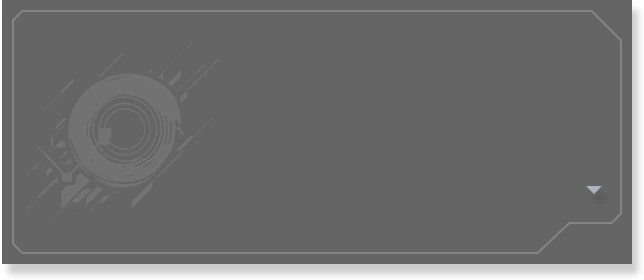
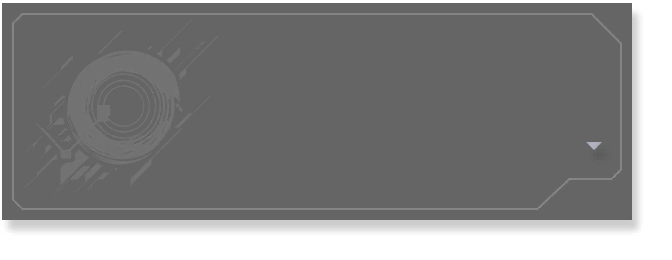
[feat,fix] Add `Character Share` feature to `Automation`, resize atlas textures

Changed region(s): [[0.0, 0.0, 0.9938, 0.9846], [0.8696, 0.5231, 0.9006, 0.5846], [0.0, 0.7692, 0.0311, 0.8]]

diff --git a/Features/Automation.cs b/Features/Automation.cs
@@ -7,8 +7,11 @@ using System.Collections;
 using System.Collections.Generic;
 using System.Linq;
 using System.Reflection;
+using System.Text;
+using System.Text.RegularExpressions;
 
 using UnityEngine;
+using UnityEngine.XR;
 
 namespace Symphony.Features {
 	[Feature("Automation")]
@@ -40,6 +43,13 @@ namespace Symphony.Features {
 			harmony.Patch(
 				AccessTools.Method(typeof(Panel_OfflineBattleResult), nameof(Panel_OfflineBattleResult.InitOfflineBattleResult)),
 				postfix: new HarmonyMethod(typeof(Automation), nameof(Automation.Patch_OfflineBattle_Restart))
+			);
+			#endregion
+
+			#region Character Share
+			harmony.Patch(
+				AccessTools.Method(typeof(Panel_CharacterDetails), nameof(Panel_CharacterDetails.Start)),
+				postfix: new HarmonyMethod(typeof(Automation), nameof(Automation.Patch_CharacterShare))
 			);
 			#endregion
 		}
@@ -407,6 +417,155 @@ namespace Symphony.Features {
 			else {
 				Btn_Restart.SetActive(false); // hide restart button
 			}
+		}
+		#endregion
+
+		#region Character Share
+		private const int CharShareCodeVersion = 1;
+		private static void Patch_CharacterShare(Panel_CharacterDetails __instance) {
+			if (!Conf.Automation.Use_CharacterShare.Value) return;
+
+			var pc = __instance.XGetFieldValue<ClientPcInfo>("_SelectPCInfo");
+			var _goFavorMarriageIcon = __instance.XGetFieldValue<GameObject>("_goFavorMarriageIcon");
+			if (pc == null || _goFavorMarriageIcon == null) {
+				Plugin.Logger.LogWarning("[Symphony::SimpleUI] Cannot get client PC info or source button from scene");
+				return;
+			}
+
+			var parent = __instance.XGetFieldValue<GameObject>("_goMarriageHide").transform;
+			var hp_fill_box = parent.Find("hp_fill_box");
+			var DefSp = parent.Find("DefSp");
+
+			#region Export button
+			{
+				var go = GameObject.Instantiate(_goFavorMarriageIcon, parent, true);
+				go.name = "Share_Export";
+				Destroy(go.transform.Find("BtnMarriageVoice")?.gameObject);
+
+				go.SetActive(true);
+				go.transform.localPosition = new Vector3(
+					DefSp.localPosition.x + 40f,
+					hp_fill_box.localPosition.y + 20f,
+					0f
+				);
+
+				var loc = go.GetComponentInChildren<UILocalize>();
+				if (loc != null) {
+					loc.enabled = false;
+					Destroy(loc);
+				}
+
+				var lbl = go.GetComponentInChildren<UILabel>();
+				if (lbl != null) lbl.text = "내보내기";
+
+				if (!go.TryGetComponent<UISprite>(out var sp) || !go.TryGetComponent<UIButton>(out var btn)) {
+					Plugin.Logger.LogWarning("[Symphony::SimpleUI] Cannot get component, failed to add favorite feature on CharacterDetail");
+					Destroy(go);
+					return;
+				}
+
+				btn.GetComponent<UISprite>()?.atlas = Atlas.atlas;
+				btn.normalSprite = "UI_Export";
+				sp.spriteName = btn.normalSprite;
+
+				btn.hoverSprite = null;
+				btn.pressedSprite = null;
+
+				btn.onClick.Clear();
+				btn.onClick.Add(new EventDelegate(() => {
+					var sb = new StringBuilder();
+					sb.AppendFormat("Symphony:{0}:", CharShareCodeVersion);
+
+					sb.AppendFormat(
+						"{0}:{1}:{2}:{3}:{4}:",
+						new Regex(@"^Char_(.+)_N$").Replace(pc.Index, "$1"),
+						pc.Level,
+						pc.FavorPoint >= 20000 ? "Y" : "N",
+						pc.CoreLinkBonus_KeyString,
+						pc.GetTotalCoreValue() // CoreLink Suitability
+					);
+
+					// Stat levels
+					ACTOR_ATTR_TYPE[] attrs = [
+						ACTOR_ATTR_TYPE.HP,
+						ACTOR_ATTR_TYPE.ATK,
+						ACTOR_ATTR_TYPE.DEF,
+						ACTOR_ATTR_TYPE.APPLY,
+						ACTOR_ATTR_TYPE.EVADE,
+						ACTOR_ATTR_TYPE.CRI
+					];
+					sb.AppendFormat("{0}:",
+						string.Join(",", attrs.Select(
+							attr => pc.PCEnchantAttrInfoList
+								.FirstOrDefault(x => x.AttrType == (byte)attr)?.EnchantAfterCount ?? 0
+						))
+					);
+
+					// Equip key & levels
+					var equips = pc.XGetFieldValue<List<EquippedItemMok>>("equippedItemList");
+					if (equips == null)
+						sb.Append(":");
+					else
+						sb.AppendFormat("{0}:", string.Join(",", equips.Select(x => $"{x.Data.Key};{x.EnchantLevel}")));
+
+					// Priority skill
+					sb.AppendFormat("{0}:", pc.AIInfo.FirstSkillSlotType);
+
+					// Skill levels
+					sb.AppendFormat("{0}:", string.Join(",", pc.HaveSkillList.OrderBy(x => x.SkillKeyString).Select(x => $"{x.SkillLevel}")));
+
+					sb.Append("END");
+
+					var shareText = sb.ToString();
+					Plugin.Logger.LogMessage($"[Symphony::Automation] Export unit data '{shareText}'");
+					__instance.ShowMessage($"복사되었습니다.\n\n{shareText}");
+
+					// TODO: Copy to clipboard
+				}));
+			}
+			#endregion
+
+			#region Import button
+			{
+				var go = GameObject.Instantiate(_goFavorMarriageIcon, parent, true);
+				go.name = "Share_Import";
+				Destroy(go.transform.Find("BtnMarriageVoice")?.gameObject);
+
+				go.SetActive(true);
+				go.transform.localPosition = new Vector3(
+					DefSp.localPosition.x + 140f,
+					hp_fill_box.localPosition.y + 20f,
+					0f
+				);
+
+				var loc = go.GetComponentInChildren<UILocalize>();
+				if (loc != null) {
+					loc.enabled = false;
+					Destroy(loc);
+				}
+
+				var lbl = go.GetComponentInChildren<UILabel>();
+				if (lbl != null) lbl.text = "불러오기";
+
+				if (!go.TryGetComponent<UISprite>(out var sp) || !go.TryGetComponent<UIButton>(out var btn)) {
+					Plugin.Logger.LogWarning("[Symphony::SimpleUI] Cannot get component, failed to add favorite feature on CharacterDetail");
+					Destroy(go);
+					return;
+				}
+
+				btn.GetComponent<UISprite>()?.atlas = Atlas.atlas;
+				btn.normalSprite = "UI_Import";
+				sp.spriteName = btn.normalSprite;
+
+				btn.hoverSprite = null;
+				btn.pressedSprite = null;
+
+				btn.onClick.Clear();
+				btn.onClick.Add(new EventDelegate(() => {
+					// TODO
+				}));
+			}
+			#endregion
 		}
 		#endregion
 	}

diff --git a/Resource.Designer.cs b/Resource.Designer.cs
@@ -203,6 +203,26 @@ namespace Symphony {
         /// <summary>
         ///   System.Byte[] 형식의 지역화된 리소스를 찾습니다.
         /// </summary>
+        internal static byte[] UI_Export {
+            get {
+                object obj = ResourceManager.GetObject("UI_Export", resourceCulture);
+                return ((byte[])(obj));
+            }
+        }
+        
+        /// <summary>
+        ///   System.Byte[] 형식의 지역화된 리소스를 찾습니다.
+        /// </summary>
+        internal static byte[] UI_Import {
+            get {
+                object obj = ResourceManager.GetObject("UI_Import", resourceCulture);
+                return ((byte[])(obj));
+            }
+        }
+        
+        /// <summary>
+        ///   System.Byte[] 형식의 지역화된 리소스를 찾습니다.
+        /// </summary>
         internal static byte[] UI_SelectWorldBtn_MainStory_Small {
             get {
                 object obj = ResourceManager.GetObject("UI_SelectWorldBtn_MainStory_Small", resourceCulture);

diff --git a/UI/Panels/ConfigPanel.cs b/UI/Panels/ConfigPanel.cs
@@ -577,7 +577,20 @@ namespace Symphony.UI.Panels {
 							offset += 20;
 							DrawLabel(ref offset, "이 기능은 매크로 동작을 포함합니다.\n사용 시 운영 주체에 의해 이용 제한에 이를 수 있습니다.\n신중하게 사용해 주세요.", Color.yellow);
 
+							DrawToggle(ref offset, "'전투원 공유' 기능 사용하기", Conf.Automation.Use_CharacterShare);
+							DrawLabel(ref offset, """
+사용중인 전투원의 스탯, 장비, 풀링크 보너스 등을 포함한 공유 문자열로 내보내거나, 불러오는 기능입니다.
+전투원의 레벨과 스킬 레벨, 링크, 호감도 차이는 경고 메시지를 출력합니다.
+불러올 때 전투원의 스탯, 우선 스킬, 장비 장착이 자동으로 이루어집니다.
+장비 장착은 해제된 장비만 장착하며, 부족한 경우 장착중인 전투원을 표시합니다.
+""", Color_description, 12);
+
+							DrawSeparator(ref offset);
+
 							DrawToggle(ref offset, "기지 '일괄 수령' 재시작 사용하기", Conf.Automation.Use_Base_CollectAll_Restart);
+
+							DrawSeparator(ref offset);
+
 							DrawToggle(ref offset, "자율 전투 재시작 사용하기", Conf.Automation.Use_OfflineBattle_Restart);
 							#endregion
 							break;

diff --git a/Atlas.cs b/Atlas.cs
@@ -9,7 +9,7 @@ using UnityEngine;
 namespace Symphony {
 	internal class Atlas {
 		private const int DefaultAtlasPadding = 2;
-		private const int DefaultMaxAtlasSize = 4096;
+		private const int DefaultMaxAtlasSize = 2048;
 
 		public static NGUIAtlas atlas { get; private set; }
 
@@ -17,6 +17,8 @@ namespace Symphony {
 			Setup_Atlas(new Dictionary<string, byte[]>() {
 				{ "UI_SelectWorldBtn_MainStory_Small", Resource.UI_SelectWorldBtn_MainStory_Small },
 				{ "UI_SelectWorldBtn_MainStory_Small_Half", Resource.UI_SelectWorldBtn_MainStory_Small_Half },
+				{ "UI_Import", Resource.UI_Import },
+				{ "UI_Export", Resource.UI_Export },
 			});
 		}
 		private static void Setup_Atlas(

diff --git a/Conf.cs b/Conf.cs
@@ -169,6 +169,8 @@ namespace Symphony {
 			public static readonly ConfigEntry<bool> Use_OfflineBattle_Restart = config.Bind("Automation", "Use_OfflineBattle_Restart", false, "Add Restart button to offline battle result screen");
 			public static readonly ConfigEntry<byte> OfflineBattle_Last_CharDiscomp = config.Bind("Automation", "OfflineBattle_Last_CharDiscomp", (byte)1);
 			public static readonly ConfigEntry<byte> OfflineBattle_Last_EquipDiscomp = config.Bind("Automation", "OfflineBattle_Last_EquipDiscomp", (byte)1);
+
+			public static readonly ConfigEntry<bool> Use_CharacterShare = config.Bind("Automation", "Use_CharacterShare", false, "Add 'Character Share' button and 'Load Shared Character' in Character Detail Screen");
 		}
 		internal class Experimental {
 			public static readonly ConfigEntry<bool> Fix_BattleFreezing = config.Bind("Experimental", "Fix_BattleFreezing", true, "Fix a Freezing issue in certain situations during Battle");